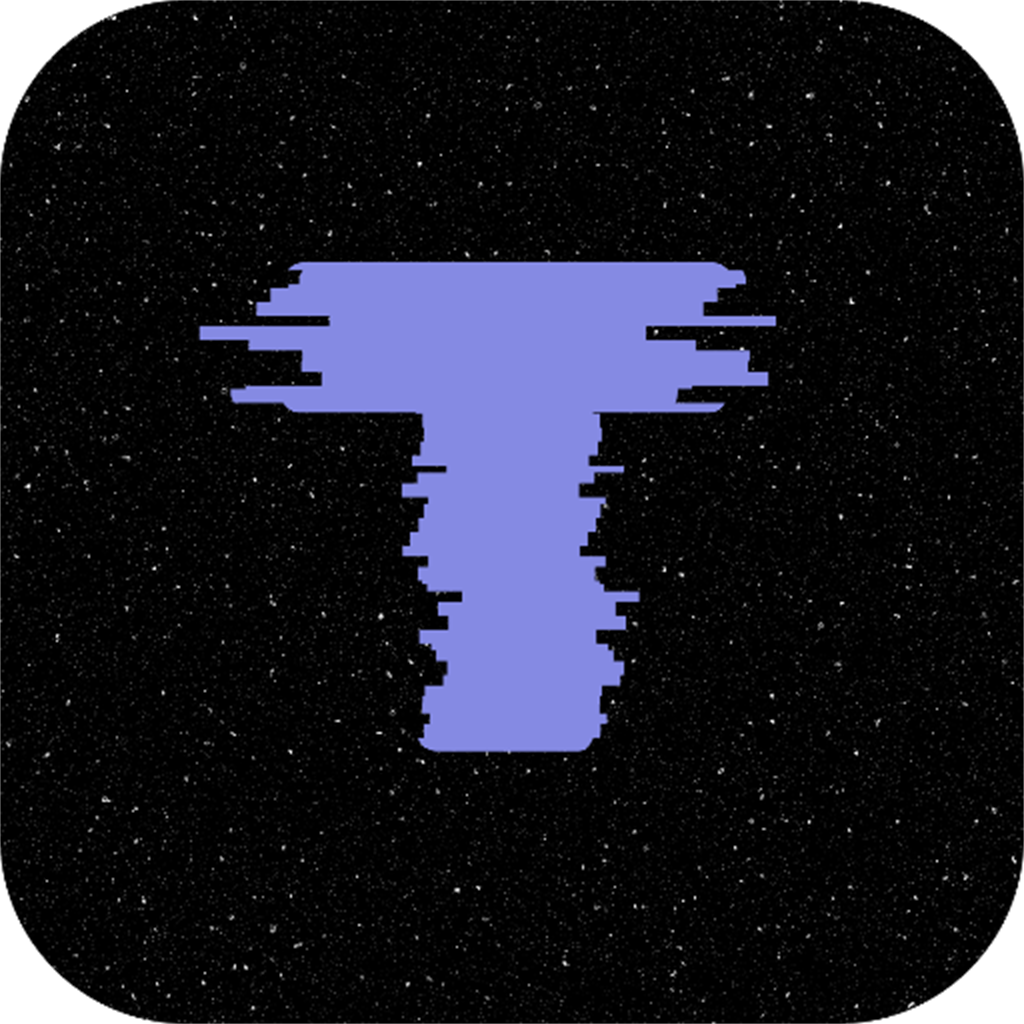
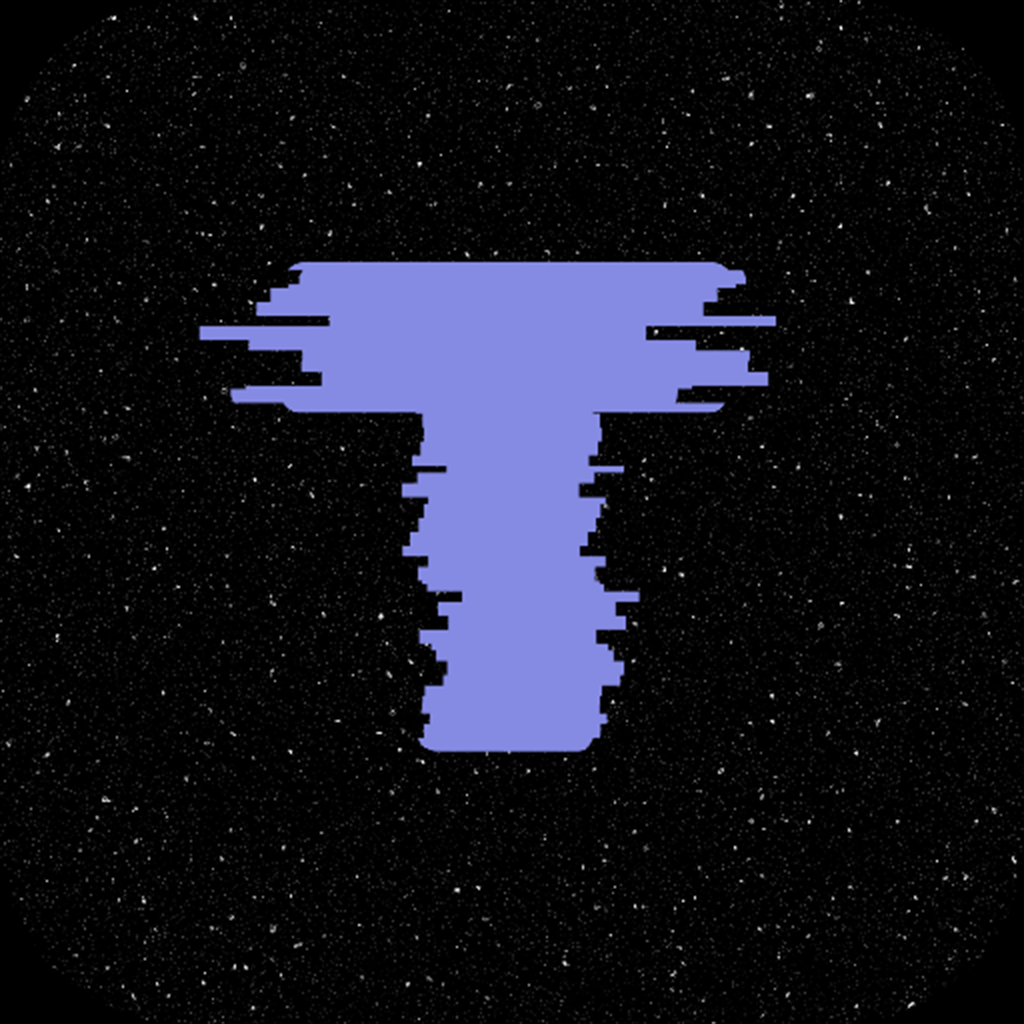
feat(ui): update branding assets and refine detail page interactions
Update application icons and favicons across multiple platforms, including Android and web. Refine the user interface by adjusting the visibility of the sidebar toggle and status change options in TV show details based on user progress.

- Update all Android mipmap icons and web assets (favicons, apple-touch-icon)
- Refactor `DetailSidebarToggle` logic to exclude person-type modals
- Conditionally show status change button in `TVShowDetail` only if user has watched episodes
- Remove redundant `updated_at` field update in `useDailyTVSync` hook

diff --git a/src/pages/TVShowDetail.tsx b/src/pages/TVShowDetail.tsx
@@ -105,6 +105,7 @@ const TVShowDetail: React.FC<TVShowDetailProps> = ({ itemId: propId }) => {
     const isInWatchlist = !!watchlistItem
     const watchlistId = watchlistItem?.id ?? null
     const watchlistStatus = watchlistItem?.status ?? null
+    const hasStarted = ((watchlistItem as unknown as { watched_episodes_count?: number }).watched_episodes_count ?? 0) > 0
     const hasUserSelectedSeason = useRef(false)
     const episodeToScrollRef = useRef<string | null>(null)
     const episodeRefs = useRef<{ [key: string]: HTMLDivElement | null }>({})
@@ -1124,14 +1125,16 @@ const TVShowDetail: React.FC<TVShowDetailProps> = ({ itemId: propId }) => {
                                         >
                                             {(watchlistStatus === 'completed' || watchlistStatus === 'caught_up') ? <EyeOff size={18} /> : <Eye size={18} />}
                                         </button>
-                                        <button 
-                                            className="detail-page__icon-btn"
-                                            onClick={() => setStatusChangeModal({ isOpen: true })}
-                                            disabled={isUpdatingStatus || modalLoading}
-                                            title="Change Status"
-                                        >
-                                            <Ellipsis size={18} />
-                                        </button>
+                                        {hasStarted && (
+                                            <button 
+                                                className="detail-page__icon-btn"
+                                                onClick={() => setStatusChangeModal({ isOpen: true })}
+                                                disabled={isUpdatingStatus || modalLoading}
+                                                title="Change Status"
+                                            >
+                                                <Ellipsis size={18} />
+                                            </button>
+                                        )}
                                     </>
                                 )}
                                 {trailerKey && (
@@ -1280,14 +1283,16 @@ const TVShowDetail: React.FC<TVShowDetailProps> = ({ itemId: propId }) => {
                                     </>
                                 ) : (
                                     <>
-                                        <button 
-                                            className="detail-page__icon-btn"
-                                            onClick={() => setStatusChangeModal({ isOpen: true })}
-                                            disabled={isUpdatingStatus || modalLoading}
-                                            title="Change Status"
-                                        >
-                                            <Ellipsis size={18} />
-                                        </button>
+                                        {hasStarted && (
+                                            <button 
+                                                className="detail-page__icon-btn"
+                                                onClick={() => setStatusChangeModal({ isOpen: true })}
+                                                disabled={isUpdatingStatus || modalLoading}
+                                                title="Change Status"
+                                            >
+                                                <Ellipsis size={18} />
+                                            </button>
+                                        )}
                                         <button 
                                             className="detail-page__icon-btn"
                                             onClick={() => {

diff --git a/src/components/layout/DetailSidebarToggle.tsx b/src/components/layout/DetailSidebarToggle.tsx
@@ -7,16 +7,20 @@ import useDetailModalStore from '../../stores/detailModalStore'
 
 const isDetailPage = (pathname: string): boolean =>
     /^\/(movie|tv)\/\d+$/.test(pathname) ||
-    /^\/tv\/\d+\/season\/\d+\/episode\/\d+$/.test(pathname) ||
-    /^\/person\/\d+$/.test(pathname)
+    /^\/tv\/\d+\/season\/\d+\/episode\/\d+$/.test(pathname)
 
 const DetailSidebarToggle: React.FC = () => {
     const location = useLocation()
     const { isMobile } = useMobile()
     const { isOpen, alwaysOpen, toggle } = useDetailSidebar()
     const isModalOpen = useDetailModalStore((state) => state.isOpen)
+    const modalType = useDetailModalStore((state) => state.type)
 
-    if (!isMobile || alwaysOpen || (!isDetailPage(location.pathname) && !isModalOpen)) return null
+    if (!isMobile || alwaysOpen) return null
+
+    // Person pages/modals render no action bar, so there is no sidebar to toggle.
+    const showable = isDetailPage(location.pathname) || (isModalOpen && modalType !== 'person')
+    if (!showable) return null
 
     return (
         <button

diff --git a/src/hooks/useDailyTVSync.ts b/src/hooks/useDailyTVSync.ts
@@ -43,8 +43,7 @@ const syncWatchingShow = async (show: SyncShow): Promise<void> => {
         .from('watchlist')
         .update({
             total_episodes: totalReleasedEpisodes,
-            last_season_check: new Date().toISOString(),
-            updated_at: new Date().toISOString()
+            last_season_check: new Date().toISOString()
         })
         .eq('id', show.id)
         .eq('status', 'watching')
